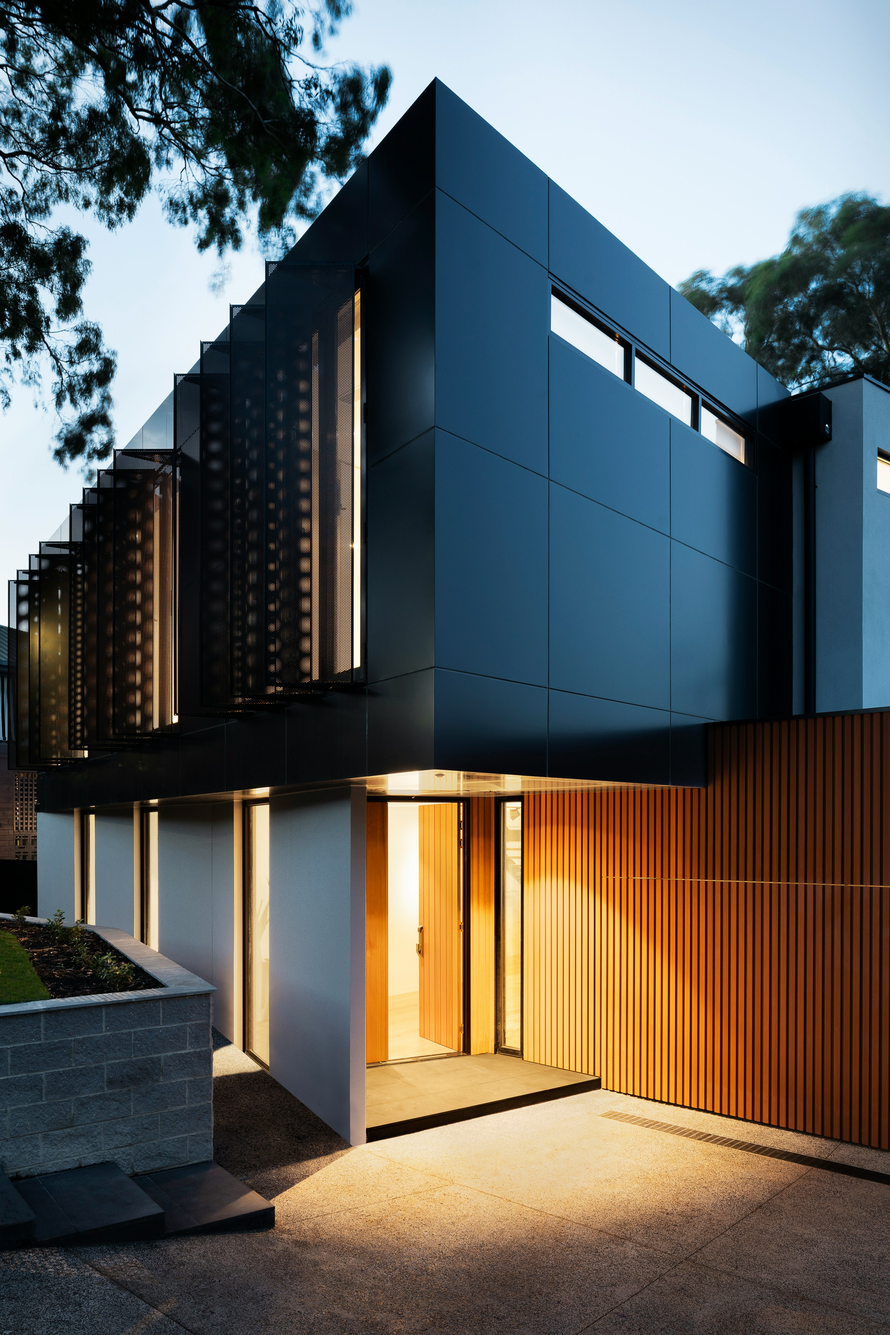
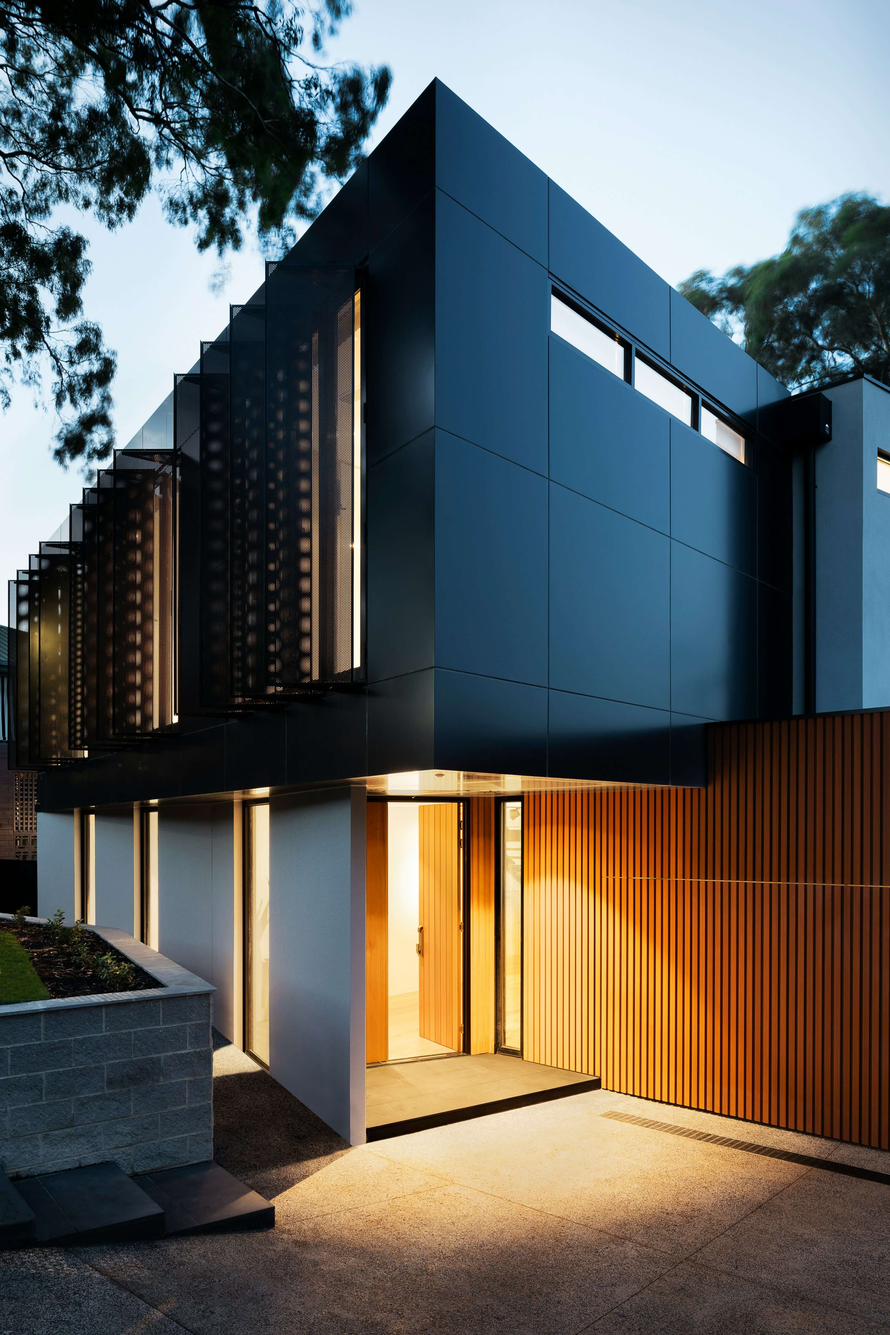
feat: change images mimetype

Changed region(s): [[0.341, 0.2489, 0.403, 0.4978], [0.155, 0.4044, 0.186, 0.5289]]

diff --git a/apps/landing/components/features-home.tsx b/apps/landing/components/features-home.tsx
@@ -165,7 +165,7 @@ export default function FeaturesHome() {
                 <div className="relative inline-flex flex-col">
                   <Image
                     className="md:max-w-none mx-auto rounded"
-                    src={"/images/features-home-bg-01.png"}
+                    src={"/images/features-home-bg-01.webp"}
                     width={500}
                     height={500}
                     alt="Features bg"
@@ -188,7 +188,7 @@ export default function FeaturesHome() {
                 <div className="relative inline-flex flex-col">
                   <Image
                     className="md:max-w-none mx-auto rounded"
-                    src={"/images/features-home-bg-02.png"}
+                    src={"/images/features-home-bg-02.webp"}
                     width={500}
                     height={500}
                     alt="Features bg"
@@ -211,7 +211,7 @@ export default function FeaturesHome() {
                 <div className="relative inline-flex flex-col">
                   <Image
                     className="md:max-w-none mx-auto rounded"
-                    src={"/images/features-home-bg-03.png"}
+                    src={"/images/features-home-bg-03.webp"}
                     width={500}
                     height={500}
                     alt="Features bg"

diff --git a/apps/landing/components/teams.tsx b/apps/landing/components/teams.tsx
@@ -18,7 +18,7 @@ export default function Teams() {
               <div className="flex flex-col items-center">
                 <Image
                   className="rounded-full mb-4"
-                  src={"/images/team-member-01.png"}
+                  src={"/images/team-member-01.webp"}
                   width={120}
                   height={120}
                   alt="Team member 01"
@@ -46,7 +46,7 @@ export default function Teams() {
               <div className="flex flex-col items-center">
                 <Image
                   className="rounded-full mb-4"
-                  src={"/images/team-member-02.png"}
+                  src={"/images/team-member-02.webp"}
                   width={120}
                   height={120}
                   alt="Team member 02"
@@ -74,7 +74,7 @@ export default function Teams() {
               <div className="flex flex-col items-center">
                 <Image
                   className="rounded-full mb-4"
-                  src={"/images/team-member-03.png"}
+                  src={"/images/team-member-03.webp"}
                   width={120}
                   height={120}
                   alt="Team member 03"

diff --git a/apps/landing/components/hero-home.tsx b/apps/landing/components/hero-home.tsx
@@ -47,7 +47,7 @@ export default function HeroHome() {
             </div>
             <Image
               className="mt-12 md:mx-auto md:w-2/3 lg:mt-0 lg:ml-0 lg:w-1/2"
-              src="/images/hero-home.png"
+              src="/images/hero-home.webp"
               alt="tailus stats and login components"
               width="1865"
               height="1750"

diff --git a/apps/landing/components/description-home.tsx b/apps/landing/components/description-home.tsx
@@ -11,7 +11,7 @@ export default function DescriptionHome() {
           <div className="md:w-1/2 lg:w-3/5">
             <Image
               className="h-full rounded-3xl object-cover md:-ml-8"
-              src="/images/woman.png"
+              src="/images/woman.webp"
               alt="working woman"
               loading="lazy"
               width="1399"

diff --git a/apps/landing/app/layout.tsx b/apps/landing/app/layout.tsx
@@ -14,7 +14,7 @@ export const metadata = {
   description:
     "Avec Immovia, soyez mis en relation avec les bonnes personnes au bon moment pour bénéficier des meilleures conditions selon vos besoins au Québec.",
   openGraph: {
-    images: "/images/hero-home.png",
+    images: "/images/hero-home.webp",
   },
   keywords: [
     "Immovia",

diff --git a/apps/landing/components/features-world.tsx b/apps/landing/components/features-world.tsx
@@ -28,7 +28,7 @@ export default function FeaturesWorld() {
               {/* Globe image */}
               <Image
                 className="relative"
-                src={"/images/planet.png"}
+                src={"/images/planet.webp"}
                 width={600}
                 height={600}
                 alt="Planet"
